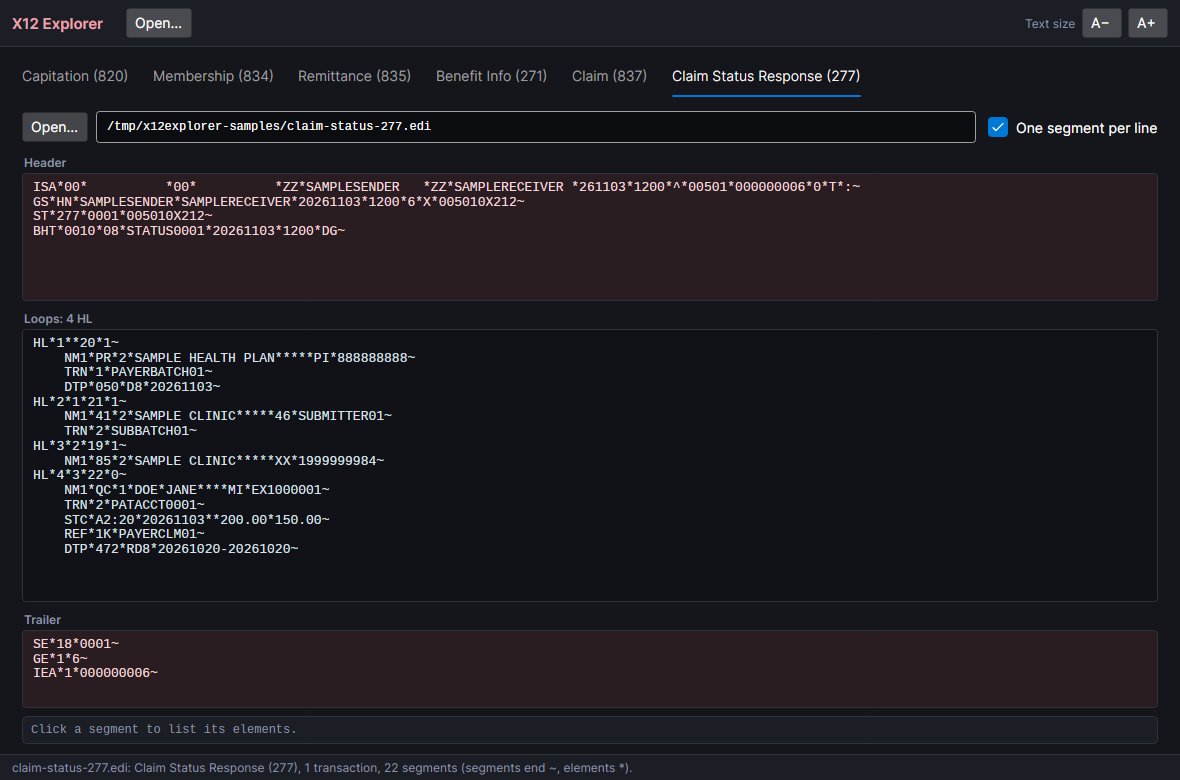
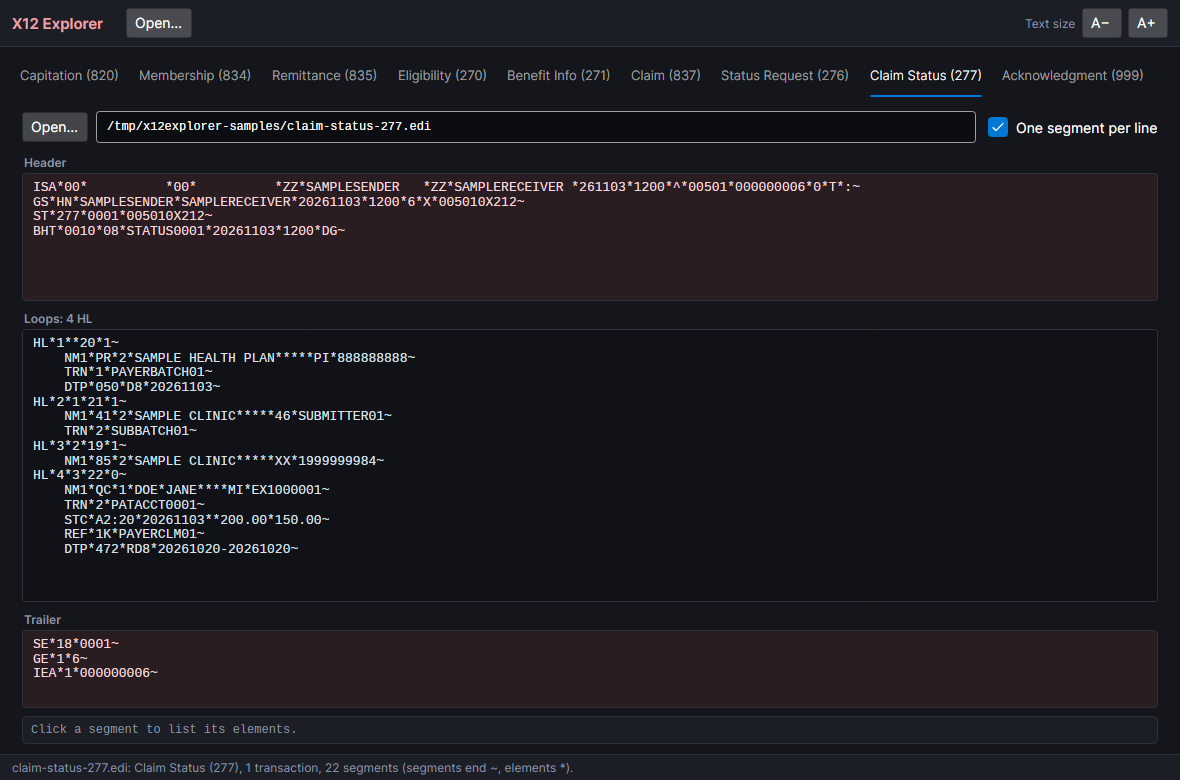
Add tabs for 270, 276 and 999, with samples
- Eligibility (270) and Status Request (276) sit beside the 271 and 277
  they ask for; both loop on HL.
- Acknowledgment (999) loops on AK2, with IK3/IK4/IK5 under each; its AK9
  summary goes to the trailer box rather than the last loop, through a new
  optional closing segment on TransactionKind.
- Made-up samples for each; the 999 acknowledges the sample 837, accepting
  one claim and rejecting the other for a bad date.
- The window's messages list the codes from TransactionKind; the 277 tab is
  now "Claim Status" so all nine tabs fit on one row.
- Tests: 40 (was 33). README table, screenshots and AGENTS.md updated.

Changed region(s): [[0.0, 0.0923, 0.8237, 0.1231], [0.1831, 0.9538, 0.5186, 1.0], [0.8542, 0.0923, 0.9763, 0.1231]]

diff --git a/tests/X12Explorer.Tests/ParserTests.cs b/tests/X12Explorer.Tests/ParserTests.cs
@@ -71,9 +71,12 @@ public class ParserTests
     [InlineData("capitation-820.edi", "820", 1, 3)]
     [InlineData("membership-834.edi", "834", 1, 2)]
     [InlineData("remittance-835.edi", "835", 1, 2)]
+    [InlineData("eligibility-270.edi", "270", 1, 3)]
     [InlineData("benefit-info-271.edi", "271", 1, 3)]
     [InlineData("claim-837.edi", "837", 2, 4)]
+    [InlineData("status-request-276.edi", "276", 1, 5)]
     [InlineData("claim-status-277.edi", "277", 1, 4)]
+    [InlineData("acknowledgment-999.edi", "999", 1, 2)]
     public void Reads_each_sample(string name, string code, int transactions, int loops)
     {
         var file = X12File.Load(Sample(name));
@@ -90,7 +93,7 @@ public class ParserTests
             Assert.NotNull(t.GroupEnd);
             Assert.NotNull(t.InterchangeEnd);
         });
-        Assert.Equal(loops, Views.Of(file.Transactions, file.Delimiters, kind.LoopStart, kind.Expanded).LoopCount);
+        Assert.Equal(loops, Views.Of(file.Transactions, file.Delimiters, kind, kind.Expanded).LoopCount);
         Assert.Empty(file.Outside);
     }
 
@@ -141,6 +144,22 @@ public class ParserTests
         Assert.Contains("ROE*RICHARD", second.Loops);
         Assert.DoesNotContain("DOE*JANE", second.Loops);
         Assert.Equal(2, second.LoopCount);
+    }
+
+    [Fact]
+    public void An_acknowledgments_ak9_goes_to_the_trailer_not_the_last_loop()
+    {
+        var file = X12File.Load(Sample("acknowledgment-999.edi"));
+        var views = Views.Of(file.Transactions, file.Delimiters, TransactionKind.Acknowledgment, expanded: true);
+
+        var header = views.Header.Split(Environment.NewLine);
+        Assert.Equal(["ISA", "GS", "ST", "AK1"], header.Select(l => l.Split('*')[0]));
+        Assert.Equal("AK1*HC*5*005010X222A1~", header[^1]);
+        Assert.Equal(
+            ["AK2*837*0001*005010X222A1~", "    IK5*A~", "AK2*837*0002*005010X222A1~", "    IK3*DTP*19*2400*8~",
+             "    CTX*CLM01:PATACCT0002~", "    IK4*3*1251*8*20261321~", "    IK5*R*5~"],
+            views.Loops.Split(Environment.NewLine));
+        Assert.Equal(["AK9*P*2*2*1~", "SE*11*0001~", "GE*1*9~", "IEA*1*000000009~"], views.Trailer.Split(Environment.NewLine));
     }
 
     [Fact]
@@ -202,10 +221,11 @@ public class ParserTests
     }
 
     [Fact]
-    public void Knows_the_six_transactions()
+    public void Knows_the_nine_transactions()
     {
-        Assert.Equal(["820", "834", "835", "271", "837", "277"], TransactionKind.All.Select(k => k.Code));
+        Assert.Equal(["820", "834", "835", "270", "271", "837", "276", "277", "999"], TransactionKind.All.Select(k => k.Code));
+        Assert.Equal("820, 834, 835, 270, 271, 837, 276, 277 and 999", TransactionKind.Codes);
         Assert.Equal("Remittance (835)", TransactionKind.ForCode(" 835 ")!.Title);
-        Assert.Null(TransactionKind.ForCode("999"));
+        Assert.Null(TransactionKind.ForCode("850"));
     }
 }

diff --git a/src/X12Explorer.Core/TransactionKind.cs b/src/X12Explorer.Core/TransactionKind.cs
@@ -3,20 +3,28 @@ namespace X12Explorer.Core;
 /// <summary>
 /// One of the HIPAA transactions the explorer has a tab for: its ST01 code, the tab's name, and the segment that
 /// starts each loop shown in the tab's middle box (ENT for the 820, INS for the 834, CLP for the 835, HL for the
-/// rest). <see cref="Expanded"/> is how the tab first shows each loop: one segment per line, or the whole loop on one.
+/// rest; AK2 for the 999). <see cref="Expanded"/> is how the tab first shows each loop: one segment per line, or the
+/// whole loop on one. <see cref="Closing"/>, when set, is a segment that ends the loops (the 999's AK9): it and what
+/// follows it go to the trailer box instead of the last loop.
 /// </summary>
-public sealed record TransactionKind(string Code, string Name, string LoopStart, bool Expanded)
+public sealed record TransactionKind(string Code, string Name, string LoopStart, bool Expanded, string? Closing = null)
 {
     public static readonly TransactionKind Capitation = new("820", "Capitation", "ENT", false);
     public static readonly TransactionKind Membership = new("834", "Membership", "INS", false);
     public static readonly TransactionKind Remittance = new("835", "Remittance", "CLP", false);
+    public static readonly TransactionKind Eligibility = new("270", "Eligibility", "HL", false);
     public static readonly TransactionKind BenefitInfo = new("271", "Benefit Info", "HL", false);
     public static readonly TransactionKind Claim = new("837", "Claim", "HL", true);
-    public static readonly TransactionKind ClaimStatus = new("277", "Claim Status Response", "HL", true);
+    public static readonly TransactionKind StatusRequest = new("276", "Status Request", "HL", true);
+    public static readonly TransactionKind ClaimStatus = new("277", "Claim Status", "HL", true);
+    public static readonly TransactionKind Acknowledgment = new("999", "Acknowledgment", "AK2", true, "AK9");
 
-    /// <summary>The tabs, in the order the window shows them.</summary>
+    /// <summary>The tabs, in the order the window shows them: each request beside its response.</summary>
     public static readonly IReadOnlyList<TransactionKind> All =
-        [Capitation, Membership, Remittance, BenefitInfo, Claim, ClaimStatus];
+        [Capitation, Membership, Remittance, Eligibility, BenefitInfo, Claim, StatusRequest, ClaimStatus, Acknowledgment];
+
+    /// <summary>The codes in tab order, for messages: "820, 834, … and 999".</summary>
+    public static string Codes => string.Join(", ", All.Take(All.Count - 1).Select(k => k.Code)) + " and " + All[^1].Code;
 
     /// <summary>The kind whose ST01 is <paramref name="code"/>, or null when the explorer has no tab for it.</summary>
     public static TransactionKind? ForCode(string code) => All.FirstOrDefault(k => k.Code == code.Trim());

diff --git a/src/X12Explorer.Core/Views.cs b/src/X12Explorer.Core/Views.cs
@@ -12,12 +12,17 @@ public sealed record Views(string Header, string Loops, string Trailer, int Loop
     /// <summary>The indent for a loop's segments after the first, when loops are shown a segment per line.</summary>
     public const string Indent = "    ";
 
+    /// <summary>The views of <paramref name="transactions"/> as <paramref name="kind"/>'s tab splits them.</summary>
+    public static Views Of(IEnumerable<Transaction> transactions, Delimiters delimiters, TransactionKind kind, bool expanded) =>
+        Of(transactions, delimiters, kind.LoopStart, expanded, kind.Closing);
+
     /// <summary>
     /// The views of <paramref name="transactions"/> (one, or all of a file's), split into loops at
     /// <paramref name="loopStart"/>. Expanded puts each segment of a loop on its own line, indented under the loop's
-    /// first; otherwise each loop is one line. Several transactions are shown one after another, a blank line apart.
+    /// first; otherwise each loop is one line. A <paramref name="closing"/> segment (the 999's AK9) and what follows
+    /// it go to the trailer, before SE. Several transactions are shown one after another, a blank line apart.
     /// </summary>
-    public static Views Of(IEnumerable<Transaction> transactions, Delimiters delimiters, string loopStart, bool expanded)
+    public static Views Of(IEnumerable<Transaction> transactions, Delimiters delimiters, string loopStart, bool expanded, string? closing = null)
     {
         var end = delimiters.Shown;
         string Line(Segment s) => s.Text + end;
@@ -41,7 +46,7 @@ public sealed record Views(string Header, string Loops, string Trailer, int Loop
             lastInterchange = t.Interchange;
             lastGroup = t.Group;
 
-            var (head, body) = t.SplitAt(loopStart);
+            var (head, body, close) = t.SplitAt(loopStart, closing);
             header.AppendLine(Line(t.Start));
             foreach (var s in head) header.AppendLine(Line(s));
 
@@ -59,6 +64,7 @@ public sealed record Views(string Header, string Loops, string Trailer, int Loop
                 }
             }
 
+            foreach (var s in close) trailer.AppendLine(Line(s));
             if (t.Trailer is { } se) trailer.AppendLine(Line(se));
             else trailer.AppendLine("(no SE: the file ends inside this transaction)");
         }

diff --git a/src/X12Explorer.Core/X12File.cs b/src/X12Explorer.Core/X12File.cs
@@ -118,7 +118,7 @@ public sealed class Transaction
     /// <summary>The ST segment.</summary>
     public Segment Start { get; }
 
-    /// <summary>ST01: 820, 834, 835, 271, 837, 277 and so on.</summary>
+    /// <summary>ST01: 820, 834, 835, 270, 271, 837, 276, 277, 999 and so on.</summary>
     public string Code => Start[1].Trim();
 
     /// <summary>ST02, the transaction set control number.</summary>
@@ -146,16 +146,20 @@ public sealed class Transaction
 
     /// <summary>
     /// The body split at each <paramref name="loopStart"/> segment: the segments before the first one are the
-    /// header's, and each loop runs from its start segment up to the next.
+    /// header's, and each loop runs from its start segment up to the next. A <paramref name="closing"/> segment
+    /// ends the loops; it and everything after it are returned as the closing segments.
     /// </summary>
-    public (IReadOnlyList<Segment> Header, IReadOnlyList<IReadOnlyList<Segment>> Loops) SplitAt(string loopStart)
+    public (IReadOnlyList<Segment> Header, IReadOnlyList<IReadOnlyList<Segment>> Loops, IReadOnlyList<Segment> Closing)
+        SplitAt(string loopStart, string? closing = null)
     {
         var header = new List<Segment>();
         var loops = new List<IReadOnlyList<Segment>>();
+        var end = new List<Segment>();
         List<Segment>? loop = null;
         foreach (var segment in _body)
         {
-            if (segment.Id == loopStart)
+            if (end.Count > 0 || (closing != null && segment.Id == closing)) end.Add(segment);
+            else if (segment.Id == loopStart)
             {
                 loop = [segment];
                 loops.Add(loop);
@@ -163,6 +167,6 @@ public sealed class Transaction
             else if (loop != null) loop.Add(segment);
             else header.Add(segment);
         }
-        return (header, loops);
+        return (header, loops, end);
     }
 }

diff --git a/src/X12Explorer/MainWindow.cs b/src/X12Explorer/MainWindow.cs
@@ -10,7 +10,7 @@ using X12Explorer.Core;
 namespace X12Explorer;
 
 /// <summary>
-/// The window: a tab for each transaction (820, 834, 835, 271, 837, 277), a tool bar with Open and the font
+/// The window: a tab for each transaction (<see cref="TransactionKind.All"/>), a tool bar with Open and the font
 /// buttons, and a status line. A file goes to the tab its ST01 names, whichever Open button opened it, and files can
 /// be dropped on the window too. Built in code; its controls are public so tests can drive them.
 /// </summary>
@@ -48,7 +48,7 @@ public sealed class MainWindow : Window
             var page = new TransactionPage(kind) { Margin = new Thickness(0, 10, 0, 0) };
             page.OpenButton.Click += async (_, _) => await OpenPicked();
             pages[kind.Code] = page;
-            items.Add(new TabItem { Header = kind.Title, Content = page, FontSize = 14 });
+            items.Add(new TabItem { Header = kind.Title, Content = page, FontSize = 13, Padding = new Thickness(10, 0) });
         }
         Pages = pages;
         Tabs.ItemsSource = items;
@@ -78,7 +78,7 @@ public sealed class MainWindow : Window
         });
         AddHandler(KeyDownEvent, OnKey, RoutingStrategies.Tunnel);
 
-        Note("Open an 820, 834, 835, 271, 837 or 277 file, or drop one here. It opens on its own tab.");
+        Note($"Open an X12 file ({TransactionKind.Codes}), or drop one here. It opens on its own tab.");
         if (open != null) Open(open);
     }
 
@@ -111,7 +111,7 @@ public sealed class MainWindow : Window
         }
         if (!Pages.TryGetValue(code, out var page))
         {
-            Note($"{Path.GetFileName(path)} is an X12 {code}; there are tabs for 820, 834, 835, 271, 837 and 277.", error: true);
+            Note($"{Path.GetFileName(path)} is an X12 {code}; there are tabs for {TransactionKind.Codes}.", error: true);
             return false;
         }
 

diff --git a/tests/X12Explorer.Tests/WindowTests.cs b/tests/X12Explorer.Tests/WindowTests.cs
@@ -51,9 +51,12 @@ public class WindowTests
     [InlineData("capitation-820.edi", "820")]
     [InlineData("membership-834.edi", "834")]
     [InlineData("remittance-835.edi", "835")]
+    [InlineData("eligibility-270.edi", "270")]
     [InlineData("benefit-info-271.edi", "271")]
     [InlineData("claim-837.edi", "837")]
+    [InlineData("status-request-276.edi", "276")]
     [InlineData("claim-status-277.edi", "277")]
+    [InlineData("acknowledgment-999.edi", "999")]
     public void Each_sample_opens_on_its_own_tab(string name, string code)
     {
         var w = Show();
@@ -67,7 +70,7 @@ public class WindowTests
         Assert.Equal(Sample(name), page.FileName.Text);
         Assert.StartsWith("ISA*", page.HeaderBox.Text);
         Assert.StartsWith(page.Kind.LoopStart + "*", page.LoopsBox.Text);
-        Assert.StartsWith("SE*", page.TrailerBox.Text);
+        Assert.Contains(page.TrailerBox.Text!.Split(Environment.NewLine), l => l.StartsWith("SE*"));
         Assert.Contains(page.Kind.Title, w.Message.Text);
         Shot(w, code);
         w.Close();
@@ -153,7 +156,7 @@ public class WindowTests
         Assert.False(w.Open(notX12));
         Assert.Contains("no ST segment", w.Message.Text);
         Assert.False(w.Open(other));
-        Assert.Contains("is an X12 850", w.Message.Text);
+        Assert.Equal("order.edi is an X12 850; there are tabs for 820, 834, 835, 270, 271, 837, 276, 277 and 999.", w.Message.Text);
         Assert.False(w.Open(Path.Combine(dir, "missing.edi")));
         Assert.Contains("Couldn't read missing.edi", w.Message.Text);
 

diff --git a/src/X12Explorer/TransactionPage.cs b/src/X12Explorer/TransactionPage.cs
@@ -149,7 +149,7 @@ public sealed class TransactionPage : DockPanel
     private void Show()
     {
         if (_showing || _file == null) return;
-        var views = Views.Of(Shown, _file.Delimiters, Kind.LoopStart, Expanded.IsChecked == true);
+        var views = Views.Of(Shown, _file.Delimiters, Kind, Expanded.IsChecked == true);
         HeaderBox.Text = views.Header;
         LoopsBox.Text = views.Loops;
         TrailerBox.Text = views.Trailer;

diff --git a/README.md b/README.md
@@ -22,18 +22,21 @@ unzip or untar it and run `X12Explorer` (`X12Explorer.exe` on Windows). Nothing 
 | Capitation (820) | Payment order / remittance advice, as used for capitation | `ENT` |
 | Membership (834) | Benefit enrolment and maintenance | `INS` |
 | Remittance (835) | Health care claim payment / advice | `CLP` |
-| Benefit Info (271) | Eligibility, coverage or benefit information | `HL` |
+| Eligibility (270) | Eligibility, coverage or benefit inquiry | `HL` |
+| Benefit Info (271) | Eligibility, coverage or benefit information (the 270's answer) | `HL` |
 | Claim (837) | Health care claim | `HL` |
-| Claim Status Response (277) | Health care claim status | `HL` |
+| Status Request (276) | Health care claim status request | `HL` |
+| Claim Status (277) | Health care claim status response (the 276's answer) | `HL` |
+| Acknowledgment (999) | Implementation acknowledgment: accepted or rejected, and why | `AK2` (`AK9` goes to the trailer) |
 
 - **Open a file from any tab.** It goes to the tab its `ST` segment names. You can also drop a file on the window,
   or name one on the command line (`X12Explorer claims.edi`).
 - **Header, loops and trailer.** The header box shows the `ISA` and `GS` envelope, `ST`, and everything before the
   first loop (`BPR`, `TRN`, the `N1` parties and so on). The trailer shows `SE`, `GE` and `IEA`. Drag the splitters
   to give a box more room.
-- **One line per loop, or one segment per line.** Each loop starts out on one line on the 820, 834, 835 and 271
-  tabs. On the 837 and 277 tabs, each segment starts out on its own line, indented under its `HL`. A tick box
-  switches between the two.
+- **One line per loop, or one segment per line.** Each loop starts out on one line on the 820, 834, 835, 270 and
+  271 tabs. On the 837, 276, 277 and 999 tabs, each segment starts out on its own line, indented under the loop's
+  first segment. A tick box switches between the two.
 - **Every transaction in the file.** When a file holds several `ST`…`SE` transactions, a list picks one, or shows
   them all together.
 - **Elements.** Click a segment in any box and the strip below lists its elements by name: `CLP01 CLAIM0001 ·
@@ -46,10 +49,12 @@ unzip or untar it and run `X12Explorer` (`X12Explorer.exe` on Windows). Nothing 
 
 ![The 837 tab showing the second of two claims, a segment per line](Screenshots/claim-837.png)
 
+![The 999 tab: one claim accepted, one rejected for a bad date, with the AK9 summary in the trailer](Screenshots/acknowledgment-999.png)
+
 ## Trying it
 
 [`tests/X12Explorer.Tests/Samples`](tests/X12Explorer.Tests/Samples) has a small made-up file for each
-transaction. The names, IDs and amounts in them are invented. Don't add real files to the repository: they carry
+transaction. The 999 acknowledges the sample 837. The names, IDs and amounts in them are invented. Don't add real files to the repository: they carry
 personal health information.
 
 ## Building
@@ -69,7 +74,7 @@ dotnet test X12Explorer.slnx
   - `X12File`: splits a file into segments and `ST`…`SE` transactions, each with its envelope.
   - `Views`: the text of the three boxes.
   - `Elements`: finds the segment under the caret and lists its elements.
-  - `TransactionKind`: the six tabs.
+  - `TransactionKind`: the nine tabs.
 - `src/X12Explorer`: the window (`MainWindow`) and one `TransactionPage` per tab, built in code.
 - `tests/X12Explorer.Tests`: xUnit tests for the reader, plus headless window tests. Set `X12_SHOTS` to a folder to
   save pictures of the window; the screenshots here come from them.

diff --git a/AGENTS.md b/AGENTS.md
@@ -6,9 +6,9 @@ how the code is put together and the rules that keep it working.
 ## What this is
 
 A viewer for HIPAA X12 EDI files in C# on .NET 10 and Avalonia 12. It has one tab per transaction: 820, 834, 835,
-271, 837 and 277. Each tab shows the file's header (envelope, ST, and everything before the first loop), its loops,
-and its trailer (SE, GE, IEA), plus the elements of the segment under the caret. It runs on Windows, macOS and
-Linux. The original Windows Forms program is in `legacy/` and is no longer built.
+270, 271, 837, 276, 277 and 999. Each tab shows the file's header (envelope, ST, and everything before the first
+loop), its loops, and its trailer (SE, GE, IEA), plus the elements of the segment under the caret. It runs on
+Windows, macOS and Linux. The original Windows Forms program is in `legacy/` and is no longer built.
 
 ## Commands
 
@@ -32,11 +32,12 @@ X12_SHOTS=/tmp/shots dotnet test X12Explorer.slnx    # also saves pictures of th
     - `X12File.Parse` splits the text into segments and groups them into `Transaction`s.
     - Each transaction keeps its ISA and GS, the GE and IEA that close them, and any stray segments before its
       ST (`Before`).
-    - `Transaction.SplitAt(loopStart)` gives the header segments and the loops.
+    - `Transaction.SplitAt(loopStart, closing)` gives the header segments, the loops and any closing segments.
   - `Views.cs`: the text of the three boxes for one transaction or several, a loop per line or a segment per line.
   - `Elements.cs`: the segment under a caret in a box's text, and its elements listed as `CLP01 value`.
-  - `TransactionKind.cs`: the six tabs. Each has its ST01 code, its name, its loop-start segment, and whether it
-    starts with a segment per line.
+  - `TransactionKind.cs`: the nine tabs. Each has its ST01 code, its name, its loop-start segment, and whether it
+    starts with a segment per line. A kind can also name a closing segment (the 999's `AK9`) that ends the loops
+    and goes to the trailer. `Codes` lists the codes for messages.
 - `src/X12Explorer/`: the window, built in code with no XAML.
   - `MainWindow.cs`:
     - The tool bar (Open, text size), the tabs and the status line.
@@ -60,7 +61,8 @@ X12_SHOTS=/tmp/shots dotnet test X12Explorer.slnx    # also saves pictures of th
 - **Show every transaction.** The old program showed only the first `ST` of an 820. Here every transaction is
   read, and the tab's list chooses between them.
 - **Adding a transaction type** means:
-  - a `TransactionKind` in `All`, which gives it a tab automatically;
+  - a `TransactionKind` in `All`, which gives it a tab and puts it in the window's messages automatically (with
+    nine tabs the bar is full at the default width, so keep names short);
   - a made-up sample in `tests/X12Explorer.Tests/Samples`;
   - a row in `ParserTests.Reads_each_sample` and in `WindowTests.Each_sample_opens_on_its_own_tab`;
   - a row in the README's table.
